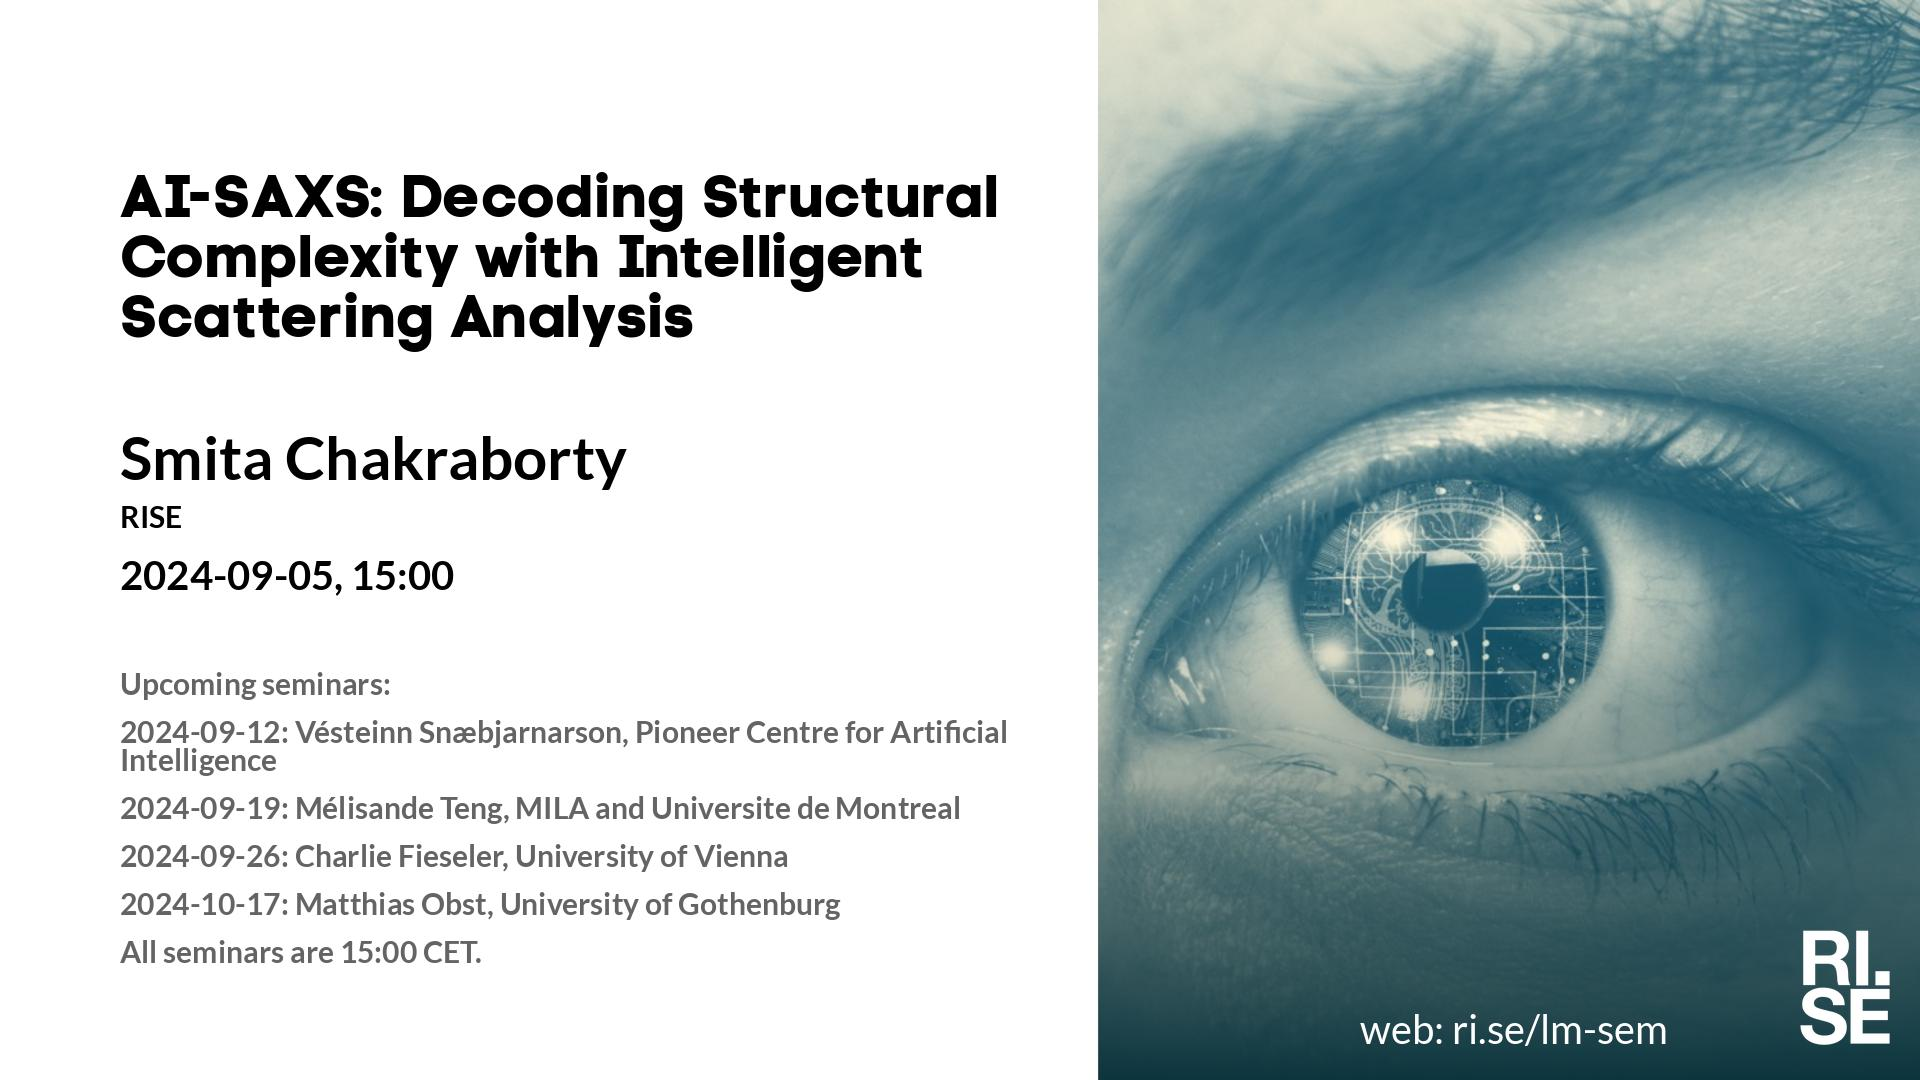
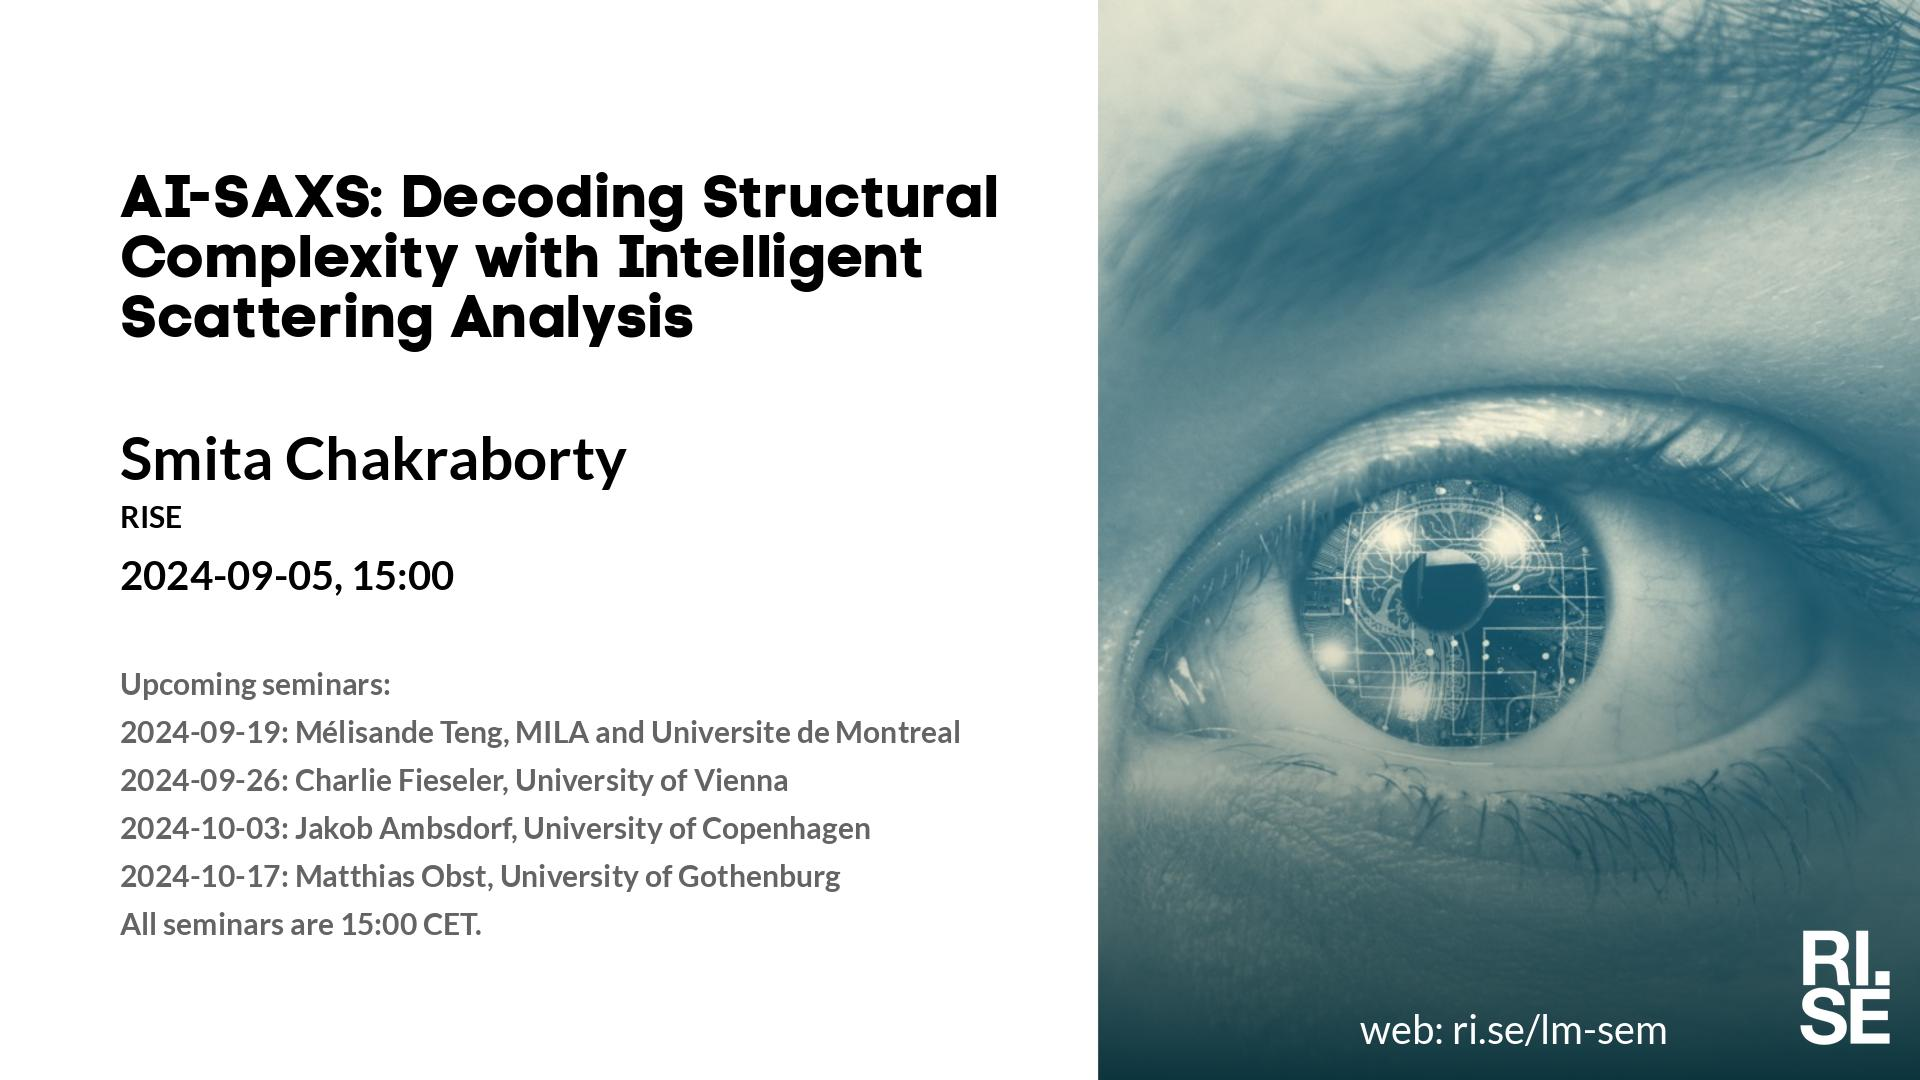
Updated plan on web site.

Changed region(s): [[0.0625, 0.6722, 0.5312, 0.8861]]

diff --git a/lm/index.md b/lm/index.md
@@ -5,12 +5,12 @@ metatags: "<meta name=\"robots\" content=\"noindex,nofollow\" />"
 <style type="text/css" scoped>
 td, th {border: 1px solid #ccc; padding: 0.6em;}
 table {border-collapse: collapse;}
-</style># Learning Machines Plan 2024-09-02
+</style># Learning Machines Plan 2024-09-04
 
 | date | speaker                                   | photo | shareable | meeting backdrop | youtube thumbnail | <a title="Speaker, Title, Abstract, Bio, Photo. Strikethrough means we don't have it yet.">comment</a>        |
 | ---- | ----------------------------------------- | ----- | ----- | ----- | ----- | -------------- |
 |  2024-09-05  |  [Smita Chakraborty, RISE](2024-09-05.md)  |  [photo](photo-smita-chakraborty.jpg)  |  [social media ](social-media-smita-chakraborty.jpg)  |  [meeting backdrop ](meeting-backdrop-smita-chakraborty.jpg)  |  [youtube thumbnail ](youtube-thumbnail-smita-chakraborty.jpg)  |  STABP  |
-|  2024-09-12  |  [Vésteinn Snæbjarnarson, Pioneer Centre for Artificial Intelligence](2024-09-12.md)  |  [photo](photo-vesteinn-snaebjarnarson.jpg)  |  [social media ](social-media-vesteinn-snaebjarnarson.jpg)  |  [meeting backdrop ](meeting-backdrop-vesteinn-snaebjarnarson.jpg)  |  [youtube thumbnail ](youtube-thumbnail-vesteinn-snaebjarnarson.jpg)  |  ST~~AB~~P  |
+| <span style="color:grey"> 2024-09-12 </span> | <span style="color:grey"> Vésteinn S. ? </span> | <span style="color:grey">  </span> | <span style="color:grey">  </span> | <span style="color:grey">  </span> | <span style="color:grey">  </span> | <span style="color:grey"> ST~~ABP~~ </span> |
 |  2024-09-19  |  [Mélisande Teng, MILA and Universite de Montreal](2024-09-19.md)  |    |  [social media ](social-media-melisande-teng.jpg)  |  [meeting backdrop ](meeting-backdrop-melisande-teng.jpg)  |  [youtube thumbnail ](youtube-thumbnail-melisande-teng.jpg)  |  S~~TABP~~  |
 |  2024-09-26  |  [Charlie Fieseler, University of Vienna](2024-09-26.md)  |    |  [social media ](social-media-charlie-fieseler.jpg)  |  [meeting backdrop ](meeting-backdrop-charlie-fieseler.jpg)  |  [youtube thumbnail ](youtube-thumbnail-charlie-fieseler.jpg)  |  S~~TABP~~  |
 |  2024-10-03  |  [Jakob Ambsdorf, University of Copenhagen](2024-10-03.md)  |    |  [social media ](social-media-jakob-ambsdorf.jpg)  |  [meeting backdrop ](meeting-backdrop-jakob-ambsdorf.jpg)  |  [youtube thumbnail ](youtube-thumbnail-jakob-ambsdorf.jpg)  |  S~~TABP~~  |

diff --git a/lm/2024-09-05.md b/lm/2024-09-05.md
@@ -20,9 +20,9 @@ Welcome to this week's Learning Machines seminar.
 
 **Upcoming seminars:**
 
-* 2024-09-12: Vésteinn Snæbjarnarson, Pioneer Centre for Artificial Intelligence
 * 2024-09-19: Mélisande Teng, MILA and Universite de Montreal
 * 2024-09-26: Charlie Fieseler, University of Vienna
+* 2024-10-03: Jakob Ambsdorf, University of Copenhagen
 * 2024-10-17: Matthias Obst, University of Gothenburg
 * All seminars are 15:00 CET.
 
